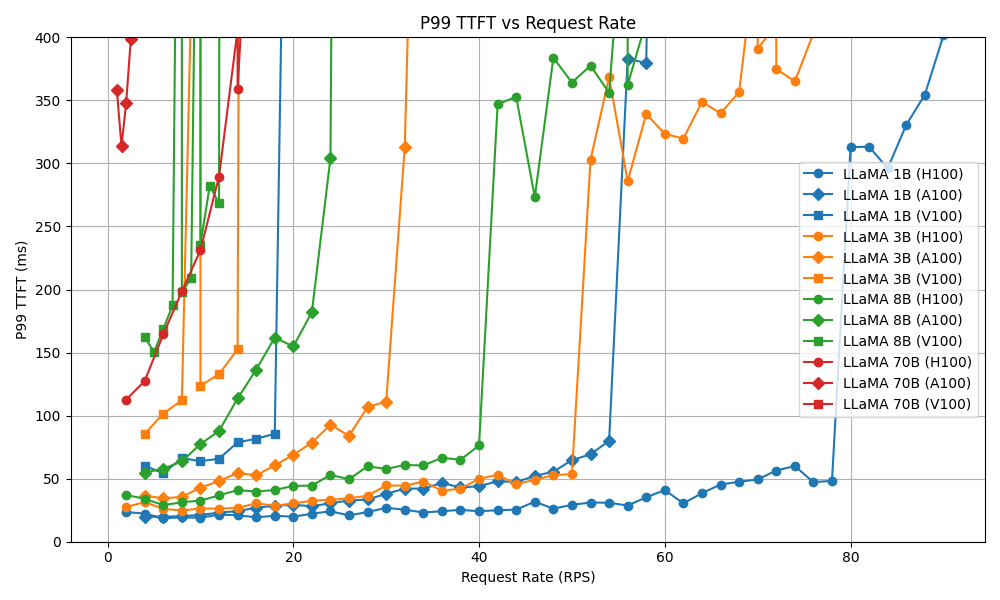
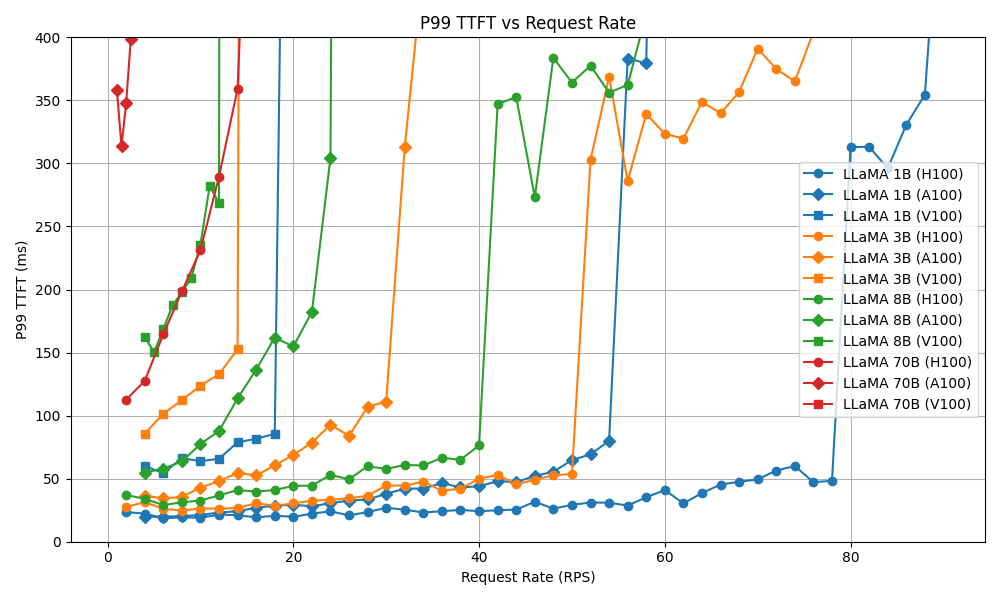
improve plotting script

diff --git a/new_benchs/results/plot_llamas.py b/new_benchs/results/plot_llamas.py
@@ -22,7 +22,7 @@ marker_style = {
     'v100': 's',  # Square
 }
 
-# Assign unique color to each model
+# Assign consistent color per model
 color_cycle = itertools.cycle(plt.rcParams['axes.prop_cycle'].by_key()['color'])
 model_colors = {model: next(color_cycle) for model in model_sizes}
 
@@ -31,13 +31,15 @@ ttft_data = {}
 tbt_data = {}
 power_data = {}
 
-# Load data
+# Load data with deduplication
 for model in model_sizes:
     for accel in accelerators:
         file_name = file_template.format(model, accel)
         label = f"{model_labels[model]} ({accel.upper()})"
         try:
             df = pd.read_csv(file_name)
+            # Deduplicate by keeping only the last row per RPS
+            df = df.groupby('RequestRate', as_index=False).last().sort_values('RequestRate')
             rps = df['RequestRate']
             ttft_data[label] = (rps, df['P99_TTFT'], model_colors[model], marker_style[accel])
             tbt_data[label] = (rps, df['P99_TPOT'], model_colors[model], marker_style[accel])
@@ -45,7 +47,7 @@ for model in model_sizes:
         except FileNotFoundError:
             print(f"Warning: {file_name} not found. Skipping.")
 
-# Plot helper
+# Plotting helper
 def plot_metric(data, ylabel, title, filename, ylim=None):
     plt.figure(figsize=(10, 6))
     for label, (rps, yvals, color, marker) in data.items():
@@ -61,7 +63,7 @@ def plot_metric(data, ylabel, title, filename, ylim=None):
     plt.savefig(filename)
     plt.close()
 
-# === Plot ===
+# Plot all metrics
 plot_metric(ttft_data, 'P99 TTFT (ms)', 'P99 TTFT vs Request Rate', 'llama_ttft.png', ylim=(0, 400))
 plot_metric(tbt_data, 'P99 TBT (ms)', 'P99 TBT vs Request Rate', 'llama_tbt.png')
 plot_metric(power_data, 'P99 Power (W)', 'P99 Power vs Request Rate', 'llama_power.png')
